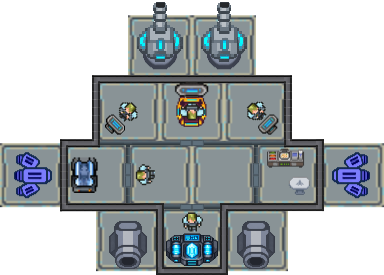
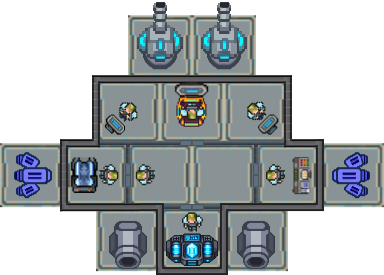
sprites and ship modified #5

Changed region(s): [[0.6875, 0.5236, 0.8125, 0.7273], [0.25, 0.5818, 0.3125, 0.6691]]

diff --git a/src/spaceship/itemTable.ts b/src/spaceship/itemTable.ts
@@ -32,8 +32,16 @@ export const ITEM_TYPES: Readonly<Record<string, ItemType>> = {
     kind: 'inner',
     offset: { x: 17, y: 18 },
   },
-  'messhall-dining': { frame: 'inner-messhall-dining', kind: 'inner', offset: { x: 0, y: 0 } },
-  'messhall-table': { frame: 'inner-messhall-table', kind: 'inner', offset: { x: 0, y: 0 } },
+  'messhall-dining-left': {
+    frame: 'inner-messhall-dining-left',
+    kind: 'inner',
+    offset: { x: 0, y: 0 },
+  },
+  'messhall-dining-right': {
+    frame: 'inner-messhall-dining-right',
+    kind: 'inner',
+    offset: { x: 0, y: 0 },
+  },
   'engine-room': { frame: 'inner-engine-room-main', kind: 'inner', offset: { x: 0, y: 0 } },
 
   // Outer items
